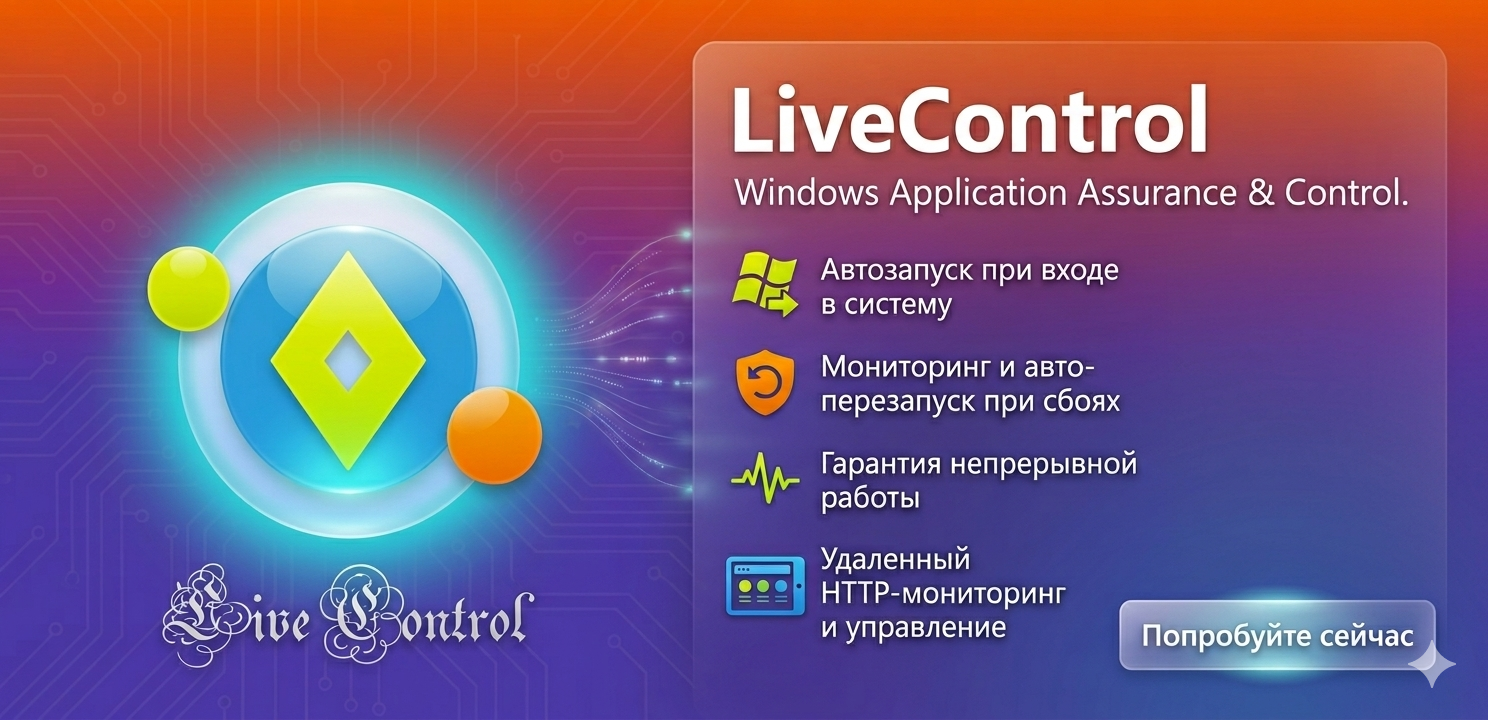
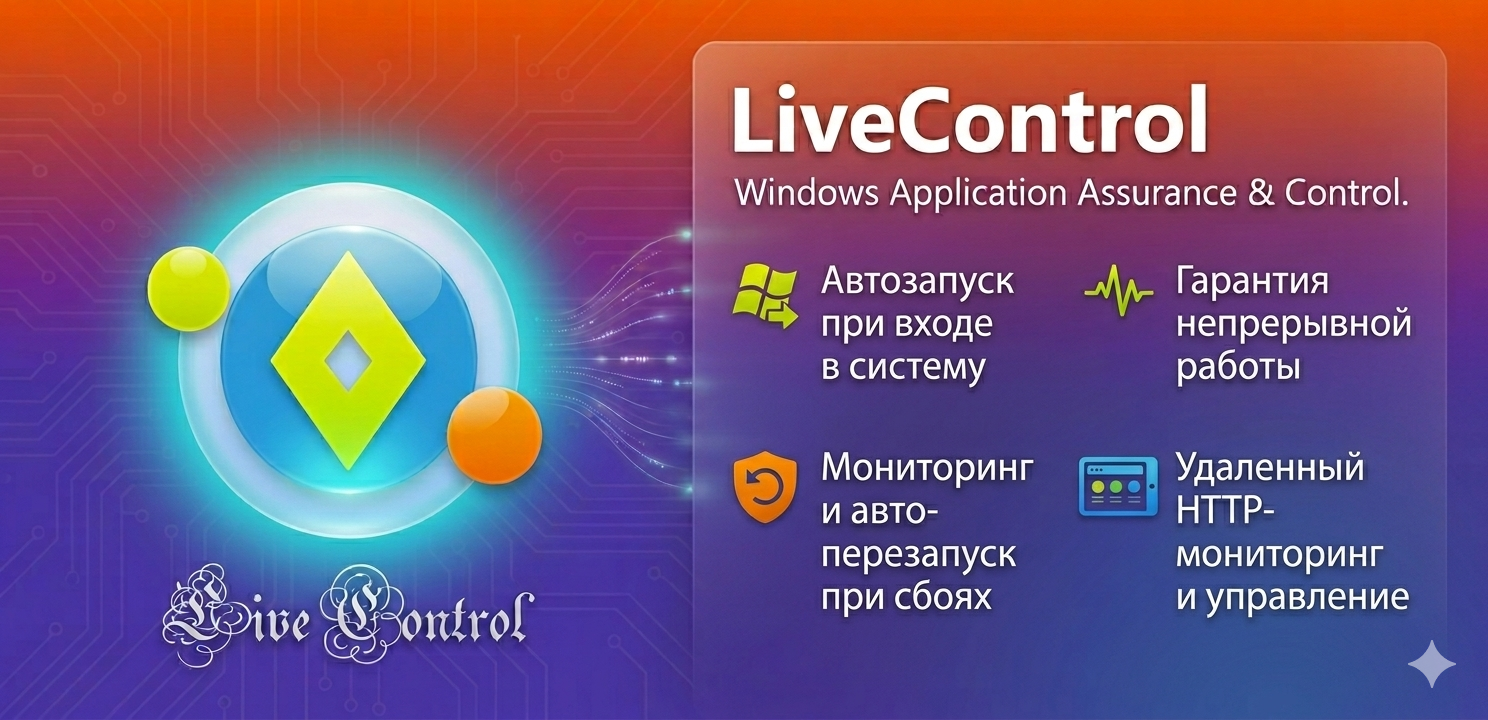
- change description LiveControl

Changed region(s): [[0.4637, 0.6111, 0.9892, 0.9472], [0.4946, 0.3361, 0.9583, 0.5806]]

diff --git a/_programs/frequency-calc.html b/_programs/frequency-calc.html
@@ -295,11 +295,6 @@ image: "uncnown.png"
             </div>
         </div>
     </div>
-
-    <div class="nav-links">
-        <a href="rf-to-if.html">RF → IF преобразователь</a>
-        <a href="if-to-rf.html">IF → RF преобразователь</a>
-    </div>
 </div>
 
 <script>

diff --git a/_programs/live-control.md b/_programs/live-control.md
@@ -10,6 +10,8 @@ screenshots:
     full: /assets/images/live-control/screenshot1-full.png
   - thumb: /assets/images/live-control/screenshot2-thumb.png
     full: /assets/images/live-control/screenshot2-full.png
+  - thumb: /assets/images/live-control/screenshot3-thumb.png
+    full: /assets/images/live-control/screenshot3-full.gif
 download_link: "/download/LiveControl_setup.exe"
 privacy_policy_link: "/my_programms/live-control/privacy-policy"
 terms_conditions_link: "/my_programms/live-control/terms-conditions"